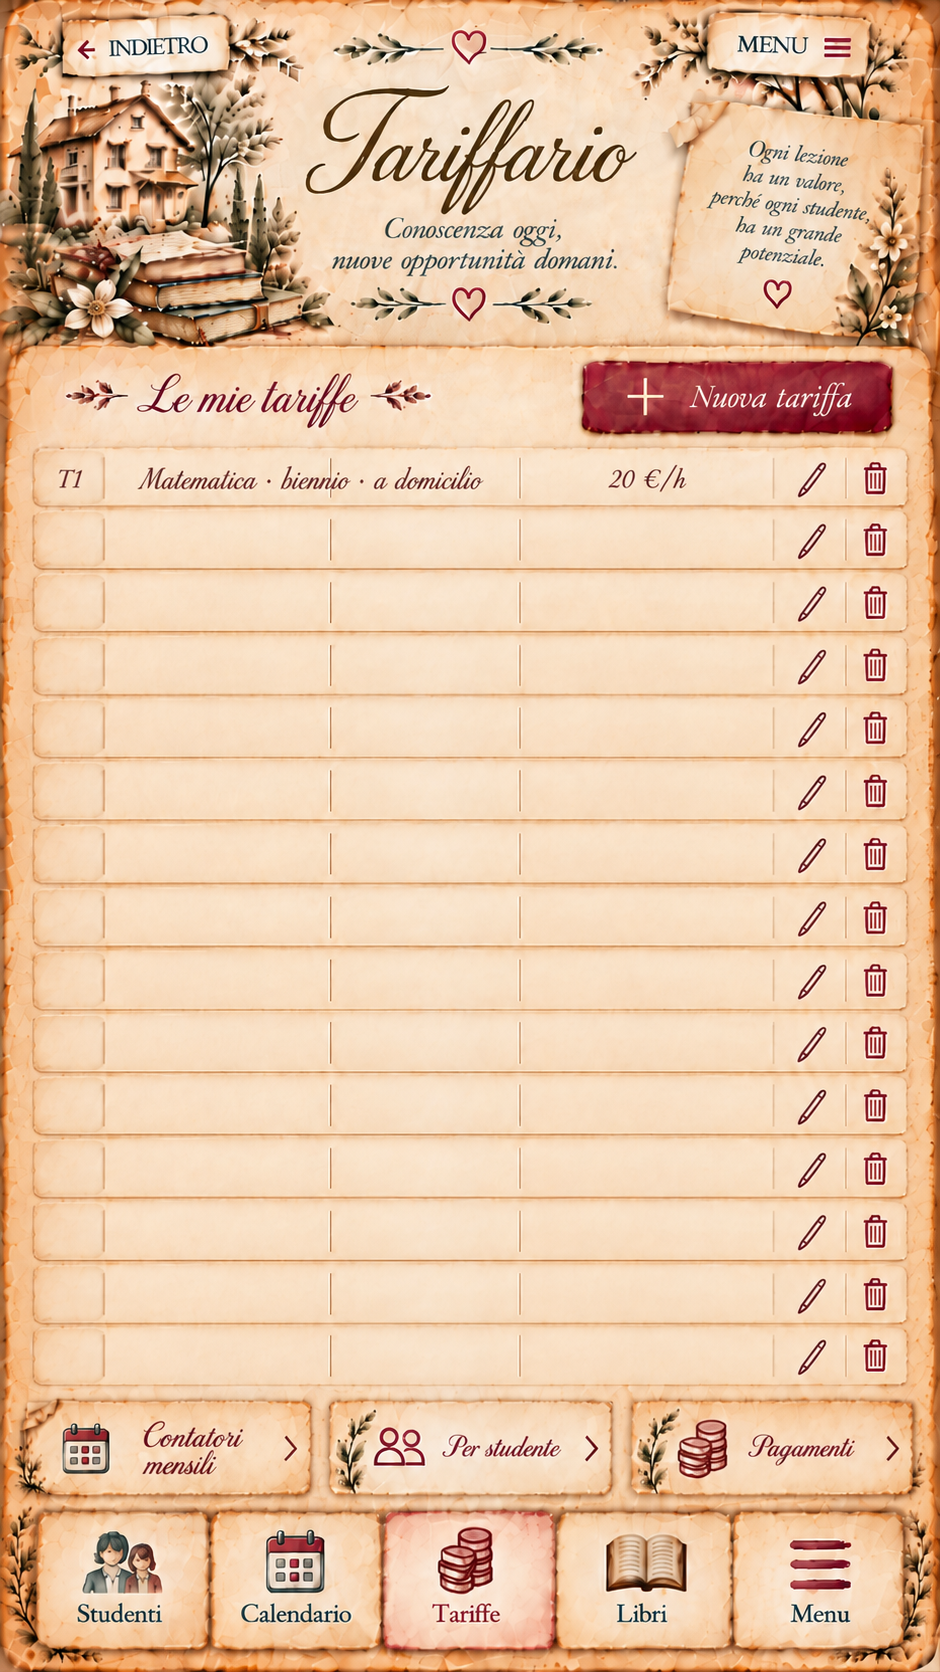
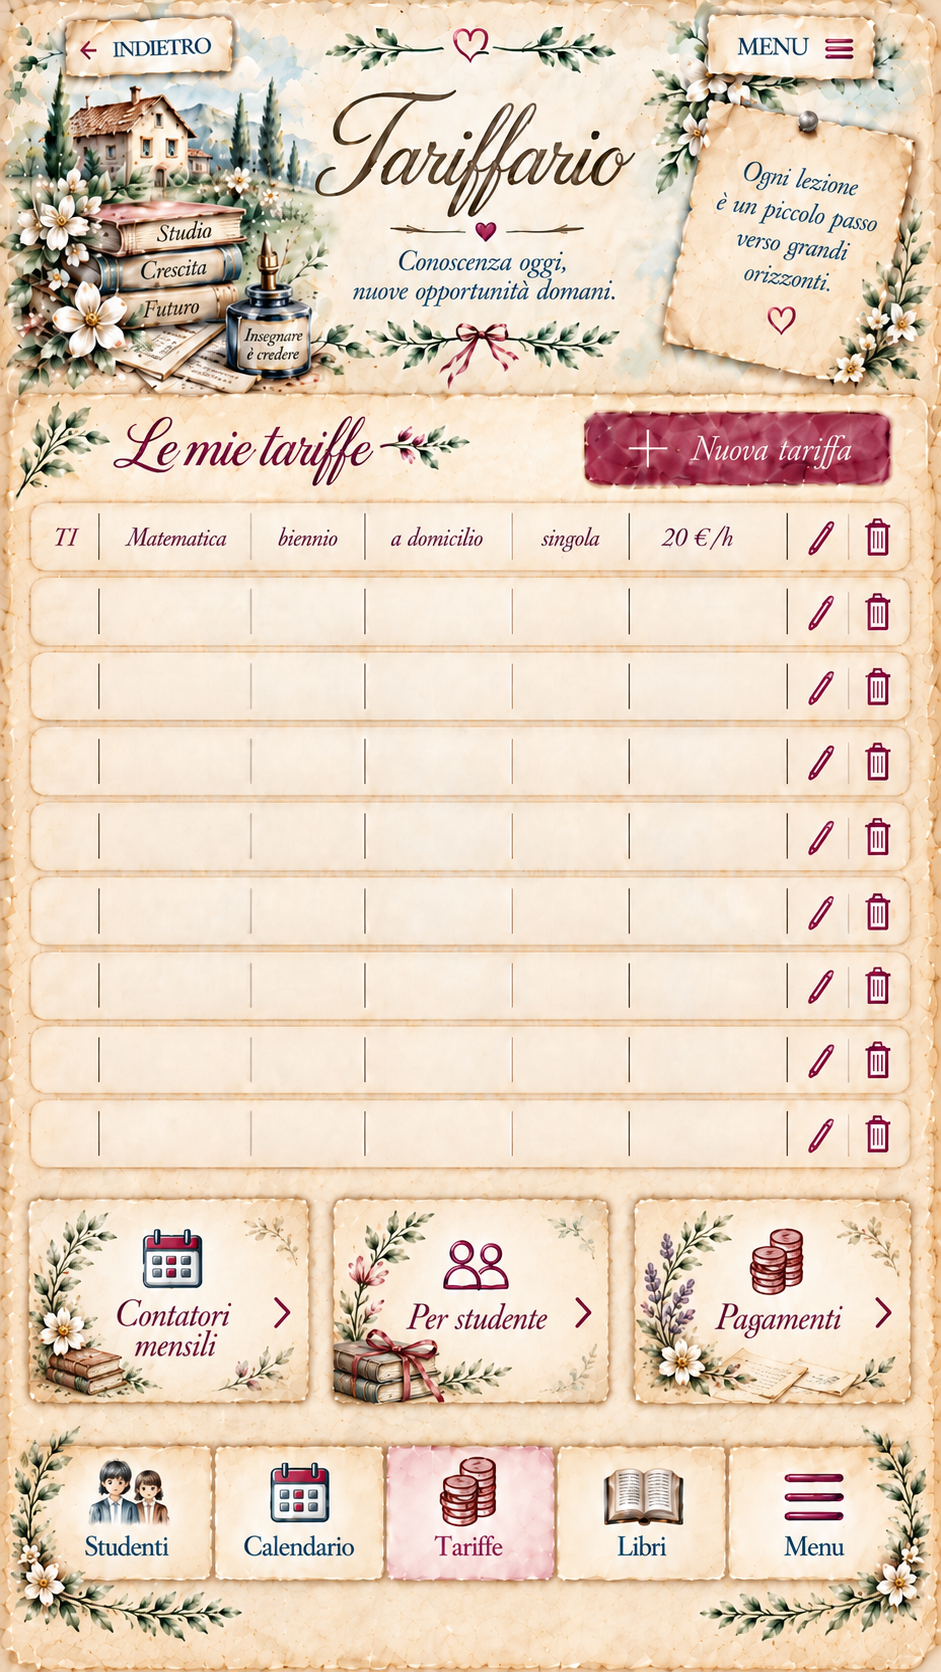
Prepara Il Registro per il cellulare

diff --git a/app/manifest.ts b/app/manifest.ts
@@ -1,0 +1,19 @@
+import type { MetadataRoute } from "next";
+
+export default function manifest(): MetadataRoute.Manifest {
+  return {
+    name: "Il Registro di Francesca",
+    short_name: "Il Registro",
+    description: "Il registro delle lezioni di Francesca Semprini",
+    start_url: "/",
+    scope: "/",
+    display: "standalone",
+    background_color: "#f4eddf",
+    theme_color: "#663139",
+    icons: [
+      { src: "/registro-192.png", sizes: "192x192", type: "image/png", purpose: "any" },
+      { src: "/registro-512.png", sizes: "512x512", type: "image/png", purpose: "any" },
+      { src: "/registro-maskable-512.png", sizes: "512x512", type: "image/png", purpose: "maskable" },
+    ],
+  };
+}

diff --git a/app/layout.tsx b/app/layout.tsx
@@ -13,8 +13,14 @@ const geistMono = Geist_Mono({
 });
 
 export const metadata: Metadata = {
-  title: "Semprini Francesca - Insegnante",
+  title: "Il Registro di Francesca",
   description: "Insegnare è toccare una vita per sempre",
+  applicationName: "Il Registro di Francesca",
+  appleWebApp: {
+    capable: true,
+    statusBarStyle: "default",
+    title: "Il Registro",
+  },
 };
 
 export default function RootLayout({ children }: { children: React.ReactNode }) {
